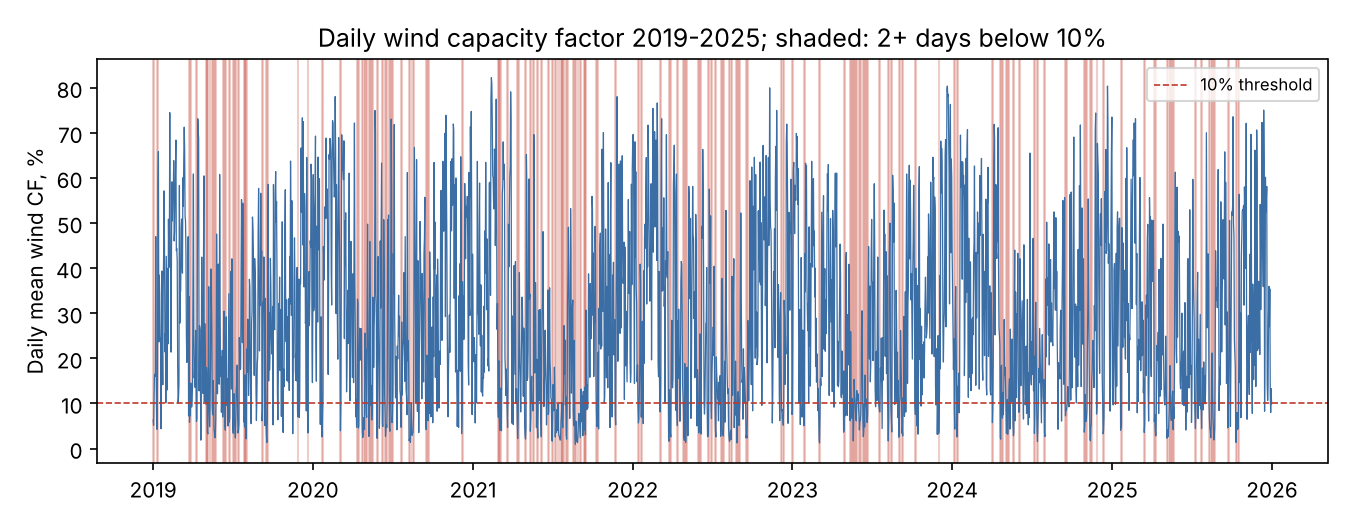
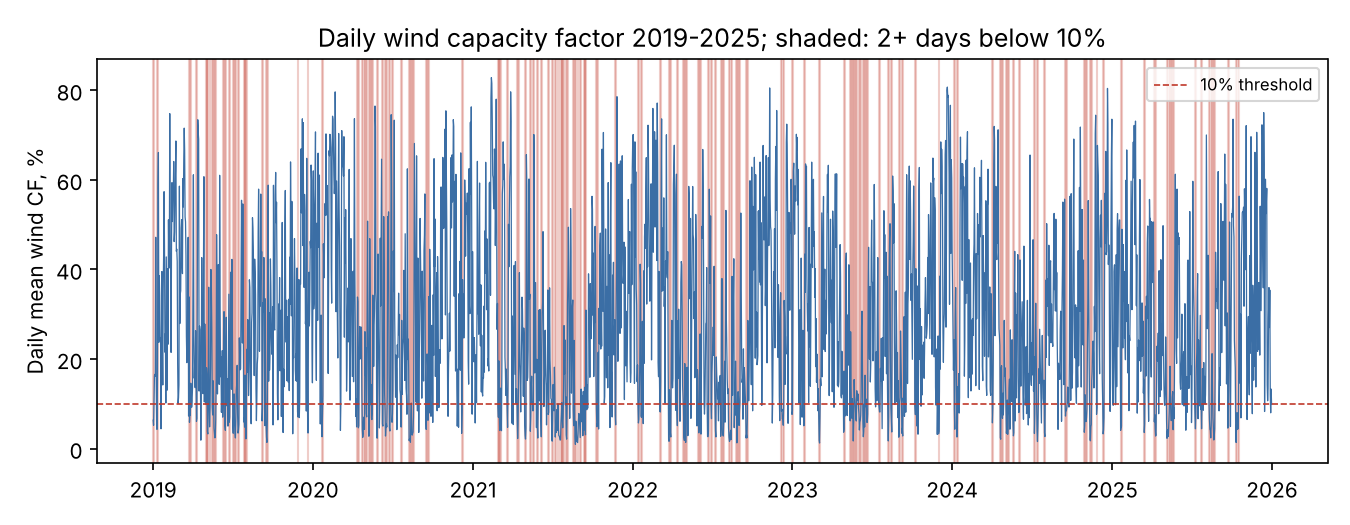
NI: correct installed wind history, add NI calibration years option, document causes
- CapacityByYear NI 2019-2025 corrected to EirGrid/SONI 2025 report Table 1
  (was 1,392.5 MW from 2020).
- NI_CALIBRATION_YEARS setting (default [2025]); 2024+2025 sensitivity run
  and documented.
- CHANGELOG: official NI constraint figures and stated causes (2024 must-run
  CCGT, outages, imports, OCGT testing; 2025 unplanned conventional outage).

Claude-Session: https://claude.ai/code/session_01SKocNyiDMqdPUBuPHbi5m6

diff --git a/Gamma.py b/Gamma.py
@@ -146,6 +146,13 @@ ALL_GEN_ZONES = HEADROOM_ZONES + ['OFFSHORE']
 # to HEADROOM_CALIBRATION_YEAR; the other years are the out-of-sample zonal backcast.
 ZONAL_HISTORY_FILE = "zonal_dd_percentages.csv"
 HEADROOM_CALIBRATION_YEAR = 2025
+# NI headroom calibration years (issue #3). NI constraint depends heavily on how the conventional
+# fleet is run: EirGrid/SONI attribute the 2024 peak (26.4%) partly to a must-run CCGT, summer
+# transmission outages, OCGT testing and higher GB imports, and the 2025 fall (18.6%) primarily
+# to a long unplanned outage of a large conventional generator (Annual Renewable Constraint and
+# Curtailment Reports 2024 and 2025). Neither year alone is a clean base. Several years are
+# pooled (energy-weighted). Default: 2025 only, as before; [2024, 2025] is the sensitivity.
+NI_CALIBRATION_YEARS = [2025]
 ZONAL_BACKCAST_CSV = "zonal_backcast_results.csv"   # written inside SCENARIO_OUTPUT_DIR
 HEADROOM_FILE = "zonal_headroom_by_year.csv"   # default curve (TID/TDPNI/TYTFS path)
 HEADROOM_CURVES_SUBDIR = "headroom_curves"     # named curves: Data_inputs/headroom_curves/<name>.csv
@@ -1050,7 +1057,7 @@ def _run_demonstrator():
     # constraint % is matched exactly. NI: its own hourly records. Every IE zone uses the IE sigma.
     cy = HEADROOM_CALIBRATION_YEAR
     ie_cy = dd['IE'].loc[dd['IE']['year'] == cy, 'avail_mw'].values
-    ni_cy = dd['NI'][dd['NI']['year'] == cy]
+    ni_cy = dd['NI'][dd['NI']['year'].isin(NI_CALIBRATION_YEARS)]
     if not len(ie_cy) or cy not in hist_annual.columns:
         raise ValueError(f"Calibration year {cy} needs hourly IE records and a {cy} column in {ZONAL_HISTORY_FILE}.")
     headroom_base = {z: calibrate_headroom(ie_cy * zone_shares[z]['share_of_ie_onshore'], hist_annual.loc[z, cy],
@@ -1059,7 +1066,7 @@ def _run_demonstrator():
     headroom_base['NI'] = calibrate_headroom(ni_cy['avail_mw'].values, ni_cy_pct, sigma_by_zone['NI'])
     default_table = rebase_headroom_table(load_zonal_headroom(input_path(HEADROOM_FILE))[0], headroom_base)
     print(f">> Zones {HEADROOM_ZONES}; 2026 headroom calibrated to each zone's recorded {cy} constraint "
-          f"('{ZONAL_HISTORY_FILE}'; NI from its hourly records):")
+          f"('{ZONAL_HISTORY_FILE}'; NI from its hourly records for {NI_CALIBRATION_YEARS}):")
     print(pd.DataFrame({'Zone_MW': {z: zone_caps_mw.get(z, np.nan) for z in IE_ZONES},
                         f'Constraint_{cy}_%': {**{z: hist_annual.loc[z, cy] for z in IE_ZONES}, 'NI': ni_cy_pct},
                         'Headroom_2026_MW': headroom_base}).round(1).to_string())

diff --git a/CHANGELOG.md b/CHANGELOG.md
@@ -58,6 +58,12 @@ Changes to `Gamma.py` and `Data_inputs/scenariosXLSX.xlsx` for the open GitHub i
 - No load factor enters the new figure; the 0.68 load factor is only in the legacy comparison column.
 - Not yet fixed: added heat-pump and EV demand is spread in proportion to the historical demand shape, so its cold-weather peak is understated. This matters most for B. A temperature-driven profile is needed.
 
+### NI constraint: sources and calibration (issue #3)
+- Official NI wind figures (EirGrid/SONI Annual Renewable Constraint and Curtailment Report 2025, Table 3): constraint 5.8% (2022), 14.1% (2023), 26.4% (2024), 18.6% (2025); curtailment 3.6, 4.5, 3.2, 3.3%. The model's NI dispatch-down input reproduces these constraint figures to 0.1 point.
+- Stated causes: 2024 report (p. 14): summer transmission outages, a large CCGT made must-run in a high-wind region after coal closure and delayed replacement units, higher GB imports even at high island wind, and constraints during testing of two new OCGTs. 2025 report (pp. 4, 15): the fall was primarily driven by a long unplanned outage of a large conventional generator; NI transmission outages in 2025 were normal.
+- NI installed wind in `Input - capacity, constraints, curtailment.xlsx` corrected to the report's Table 1 (2019 1,276.3; 2020 1,276.3; 2021 1,350.6; 2022 1,350.6; 2023 1,364.3; 2024 1,387.0; 2025 1,392.5 MW). It previously showed 1,392.5 MW from 2020. Effect on results is under 0.2 points.
+- New setting `NI_CALIBRATION_YEARS` (default `[2025]`). Pooling 2024 and 2025 raises modelled NI constraint from 21.7% to 25.5% in 2026 and from 27.0% to 31.0% in 2050 (A); all-island constraint rises by 0.5–0.9 points. The 2026 data so far (19.7% for January to September) sit closer to the 2025 calibration, so the default is unchanged. Revisit if the conventional unit returns to service.
+
 ### Weather years and dunkelflaute (`analysis/weather_dunkelflaute.py`)
 - The model's weather years are 2019–2025 plus 2026 (January–September actual, October–December filled from the 2025 shape). 2014–2018 demand and wind are in the input file but unused, because installed capacity is only given from 2019.
 - Against DNV's Ireland wind index (annual mean wind speed, % of the 1996-to-prior-year average): 2021 93.6, 2022 97.9, 2023 99.2, 2024 99.1, 2025 97.2. DNV gives no Irish figure for 2019 or 2020 (UK: 98.4 and 106.1). The set is slightly less windy than the long-term average, with 2021 among the three calmest years since 1996. This is about 26–29 years of reference, not a 30-year normal.
